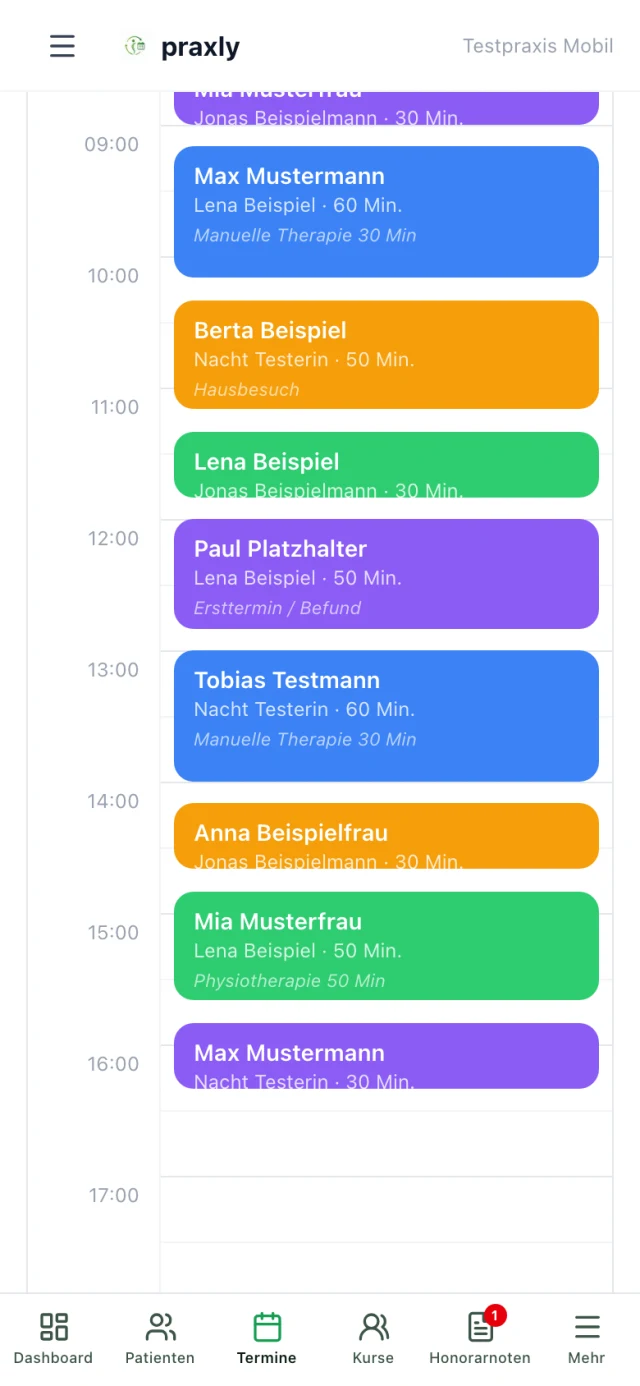
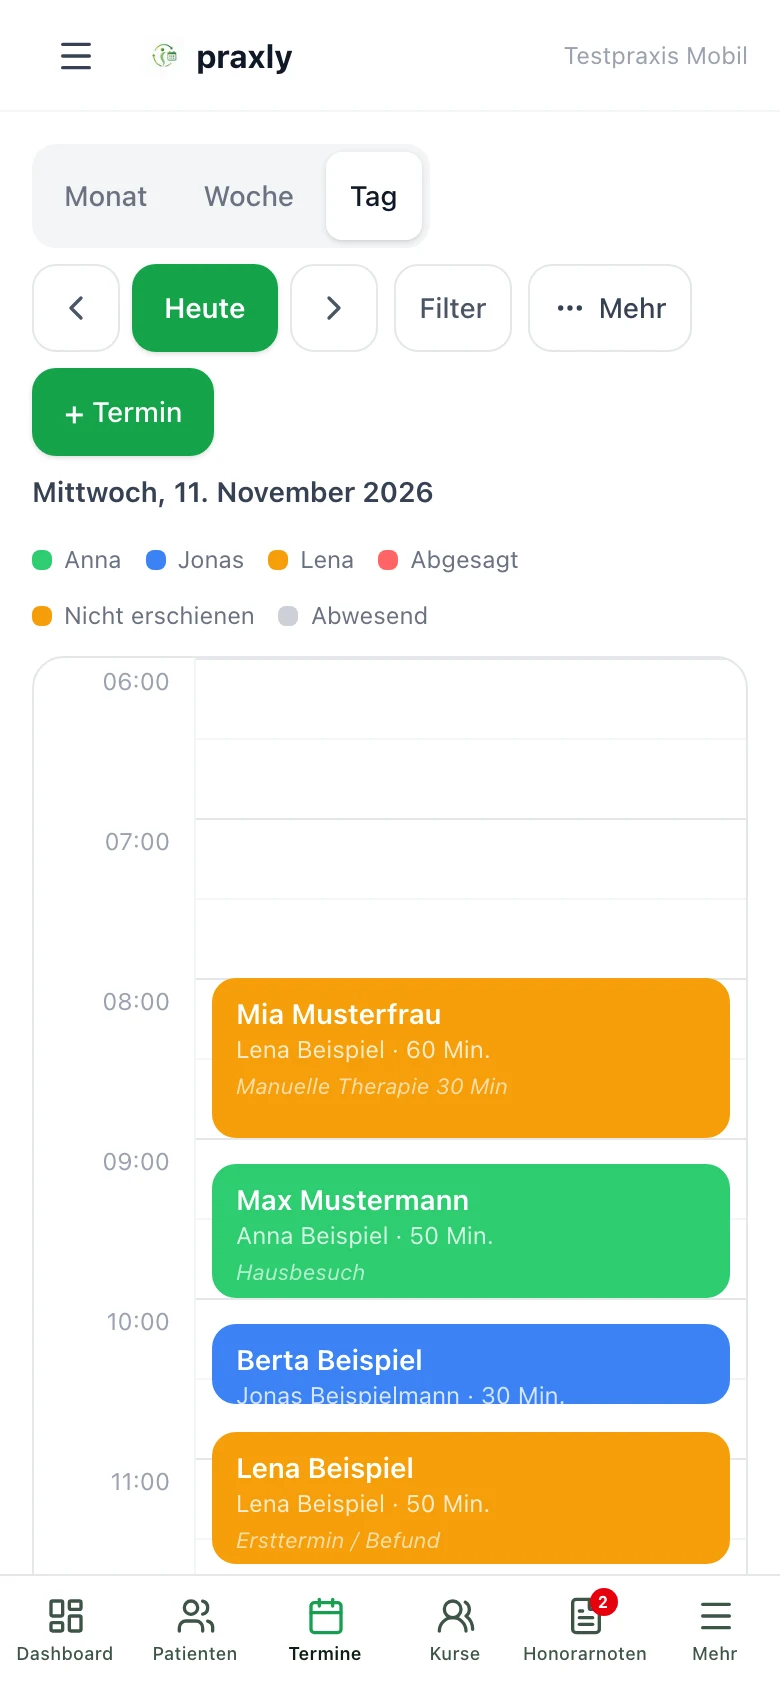
Startseite: neue Programmbilder vom 11.11. (Hero-Wochenkalender, Handy-Tagesplan, Patientenakte), neues OG-Bild ohne Slogan, alte Bilder entfernt

diff --git a/index.html b/index.html
@@ -312,7 +312,7 @@
     </div>
   </div>
   <figure class="hero-fig">
-    <div class="frame"><img src="bilder/hero-kalender-ausschnitt.webp" width="1122" height="977" fetchpriority="high" decoding="async" alt="Praxly Wochenkalender mit farbigen Terminen mehrerer Therapeut:innen, Beispieldaten mit erfundenen Namen"></div>
+    <div class="frame"><img src="bilder/hero-kalender-woche.webp" width="1122" height="974" fetchpriority="high" decoding="async" alt="Praxly Wochenkalender mit farbigen Terminen mehrerer Therapeut:innen, Beispieldaten mit erfundenen Namen"></div>
     <figcaption>Der Wochenkalender (Beispieldaten)</figcaption>
   </figure>
 </div>
@@ -360,16 +360,20 @@
         <p>Wochenansicht, Einzel- und Serientermine mit Konfliktprüfung und Online-Buchung für deine Patient:innen. Alles in einem Kalender, auch am Handy.</p>
       </div>
       <figure class="shot phone">
-        <div class="frame"><img src="bilder/online-buchung-termin-waehlen.jpg" width="525" height="1136" loading="lazy" decoding="async" alt="Online-Buchung in Praxly am Handy: Leistung, Datum und freie Uhrzeiten wählen, Beispieldaten"></div>
-        <figcaption>Die Online-Buchung am Handy (Beispieldaten)</figcaption>
+        <div class="frame"><img src="bilder/funktion-handy-kalender.webp" width="780" height="1688" loading="lazy" decoding="async" alt="Praxly Tagesplan am Handy mit farbigen Terminen, Beispieldaten mit erfundenen Namen"></div>
+        <figcaption>Der Tagesplan am Handy (Beispieldaten)</figcaption>
       </figure>
     </div>
 
-    <div class="block solo">
+    <div class="block">
       <div>
         <h2>Die Akte, die du wirklich nutzt.</h2>
         <p>Patient:innen mit Kontaktdaten und kompletter Terminhistorie, Behandlungsdokumentation mit fertigen Vorlagen und ein digitaler Anamnesebogen per Link. Die Vorlagen sind derzeit auf Physiotherapie ausgerichtet.</p>
       </div>
+      <figure class="shot">
+        <div class="frame"><img src="bilder/funktion-patientenakte.webp" width="1100" height="638" loading="lazy" decoding="async" alt="Praxly Patientenakte mit nächstem Termin und Kennzahlen, Beispieldaten mit erfundenem Namen"></div>
+        <figcaption>Die Patientenakte (Beispieldaten)</figcaption>
+      </figure>
     </div>
 
     <div class="block">
